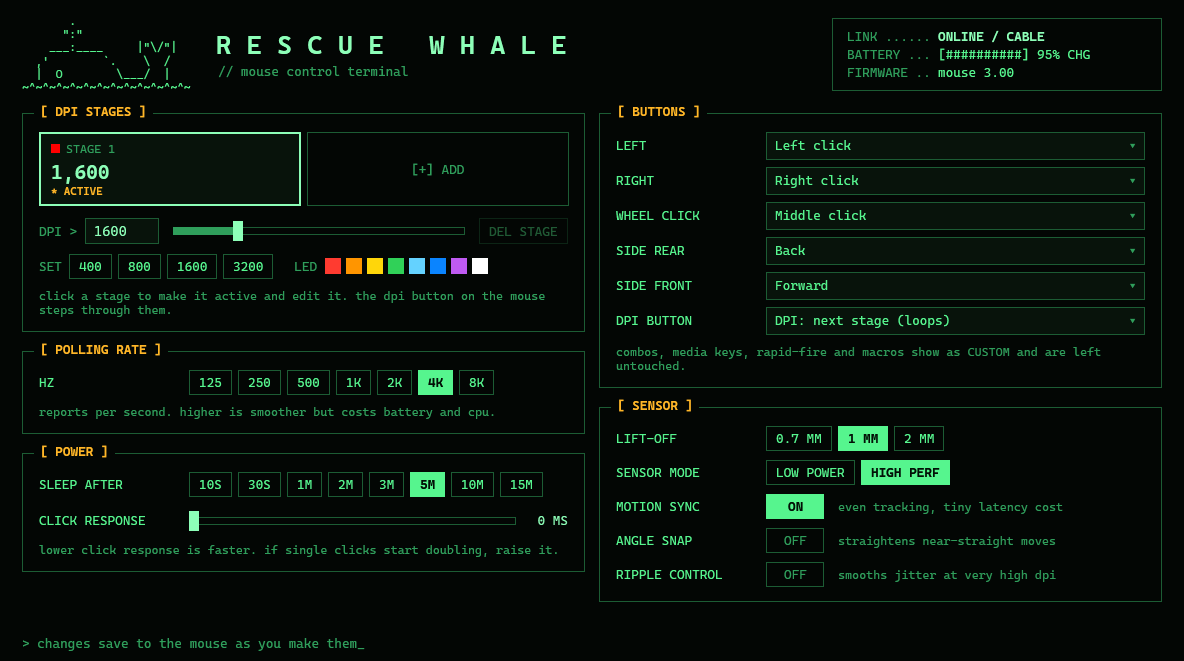
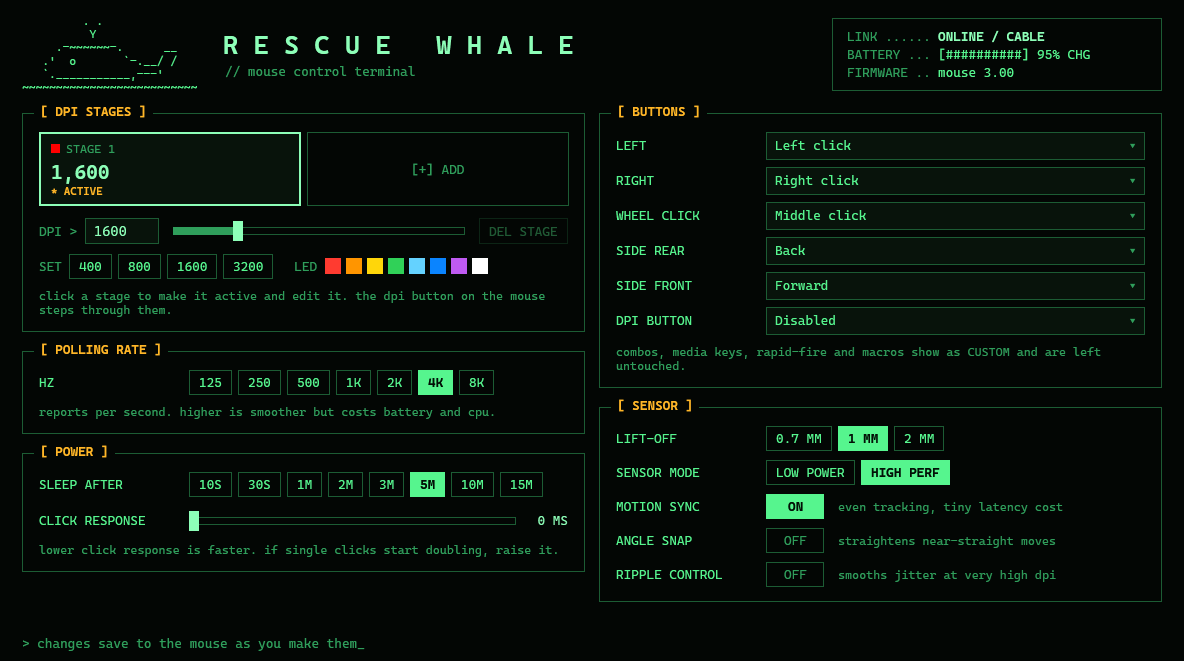
Prepare for open-source release
Move to .NET 10, add the MIT license, a README, and a workflow that
builds both downloads when a version tag is pushed. Replace the header
whale with an original drawing.

diff --git a/MainWindow.xaml.cs b/MainWindow.xaml.cs
@@ -51,12 +51,12 @@ public partial class MainWindow : Window
 
         InitializeComponent();
         Whale.Text = """
-                   .
-                  ":"
-                ___:____     |"\/"|
-              ,'        `.    \  /
-              |  O        \___/  |
-            ~^~^~^~^~^~^~^~^~^~^~^~^~
+                     . .
+                      Y
+                 .-~~~~~~-.      __
+               .'  o       `-.__/ /
+               `.___________,---'
+            ~~~~~~~~~~~~~~~~~~~~~~~~~~
             """;
         BuildStaticControls();
 

diff --git a/README.md b/README.md
@@ -1,0 +1,84 @@
+# Rescue Whale
+
+A small, open-source settings app for gaming mice built on the Compx chipset (USB vendor ID `3554`), such as some Attack Shark models. Every setting is on one screen, and changes save to the mouse as you make them.
+
+![Rescue Whale](preview.png)
+
+Rescue Whale is an independent project. It is not affiliated with, endorsed by, or supported by Attack Shark or Compx.
+
+## What it does
+
+- **DPI:** up to six stages from 50 to 42,000, each with an indicator color
+- **Polling rate:** 125 Hz to 8,000 Hz
+- **Buttons:** remap the six buttons to clicks, back/forward, DPI stepping, scrolling, polling-rate switching, or disabled
+- **Sensor:** lift-off distance, sensor mode, motion sync, angle snapping, ripple control
+- **Power:** sleep timer and click response (debounce) time
+- **Status:** connection, battery level, and firmware version
+
+It finds the mouse on its own, over the USB cable or the wireless receiver, and reconnects when the mouse wakes up.
+
+## What it does not do
+
+- Macros, key combinations, media keys, and rapid-fire. Any already on the mouse show as `CUSTOM` and are left untouched.
+- Lighting effects and the receiver's LED
+- Profiles
+- Pairing and firmware updates. Use the manufacturer's software for those.
+
+## Tested hardware
+
+So far it has been tested on a single mouse:
+
+| Connection | USB ID | Status |
+| --- | --- | --- |
+| USB cable | `3554:FB43` | Reads settings correctly. Writing is confirmed for one setting only. |
+| 8K wireless receiver | `3554:FB44` | Receiver is detected. Settings over wireless are untested. |
+
+Other Compx-based mice may work. Before it writes anything, Rescue Whale checks that the settings it read from the mouse carry the checksums it expects, and switches to read-only if they don't. If you try it on another model, please open an issue with the result.
+
+## Download and run
+
+Download `RescueWhale.exe` from the Releases page and run it. There is nothing to install.
+
+- `RescueWhale.exe` runs on any 64-bit Windows 10 or 11 PC.
+- `RescueWhale-small.exe` is much smaller but needs the [.NET 10 Desktop Runtime](https://dotnet.microsoft.com/download/dotnet/10.0).
+
+Windows may show a "Windows protected your PC" warning the first time, because the program is not code-signed. Choose **More info**, then **Run anyway**.
+
+Close the manufacturer's software before using Rescue Whale, so the two don't write to the mouse at the same time.
+
+To look around without a mouse connected, start it in demo mode:
+
+```
+RescueWhale.exe --demo
+```
+
+## Privacy
+
+Rescue Whale has no telemetry, makes no network connections, and stores nothing on your PC. Your settings live only on the mouse.
+
+## Build from source
+
+You need the [.NET 10 SDK](https://dotnet.microsoft.com/download/dotnet/10.0) on Windows.
+
+```
+dotnet build
+dotnet run
+```
+
+To produce the single-file release build:
+
+```
+dotnet publish -c Release -r win-x64 --self-contained true -p:PublishSingleFile=true -p:IncludeNativeLibrariesForSelfExtract=true -p:EnableCompressionInSingleFile=true -o dist
+```
+
+## How it talks to the mouse
+
+The mouse exposes a vendor-defined HID collection (usage page `FF02`) that exchanges 17-byte reports. Each report carries a command, an address, a length, up to ten bytes of data, and a checksum. Settings live in a small block of memory on the mouse, where every value is stored alongside its own check byte.
+
+- `Hid.cs` finds the device and sends and receives reports.
+- `Mouse.cs` maps that memory to named settings.
+- `MainWindow.xaml` and `MainWindow.xaml.cs` are the interface.
+
+## License
+
+[MIT](LICENSE)
